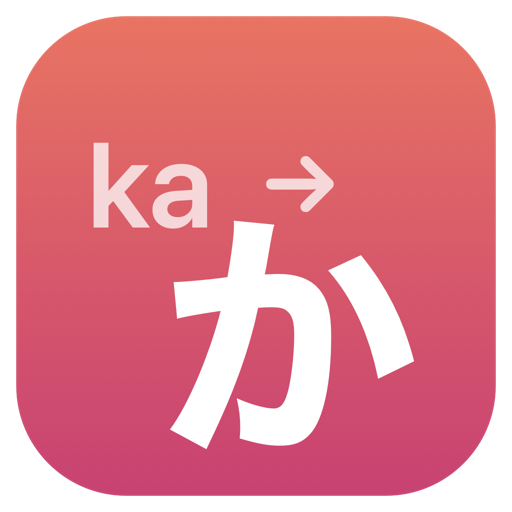
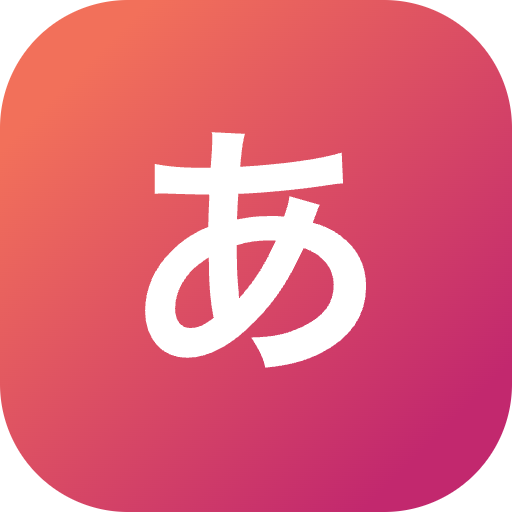
raycast: 公開版の修正とアイコンを Private 版の kana-retype と chrome-tab-search に反映

diff --git a/projects/chrome-tab-search/src/search-tabs.tsx b/projects/chrome-tab-search/src/search-tabs.tsx
@@ -12,16 +12,14 @@ function hostname(url: string) {
 }
 
 export default function Command() {
-  const {
-    data: tabs = [],
-    isLoading,
-    revalidate,
-  } = useCachedPromise(listTabs, [], {
-    failureToastOptions: { title: "タブを取得できませんでした" },
+  const { data, isLoading, error, revalidate } = useCachedPromise(listTabs, [], {
+    failureToastOptions: { title: "Failed to load tabs" },
   });
+  const tabs = data?.tabs ?? [];
+  const skippedWindowCount = data?.skippedWindowCount ?? 0;
   const [query, setQuery] = useState("");
 
-  // 日本語は単語に区切れないので、タイトルと URL の部分一致で絞り込む
+  // Filter by matching title and url across space-separated query words
   const words = query.toLowerCase().split(/\s+/).filter(Boolean);
   const visible = tabs.filter((tab) => {
     const haystack = `${tab.title}\n${tab.url}`.toLowerCase();
@@ -34,33 +32,55 @@ export default function Command() {
       await closeMainWindow();
       await popToRoot({ clearSearchBar: true });
     } catch (error) {
-      await showFailureToast(error, { title: "タブを開けませんでした" });
+      await showFailureToast(error, { title: "Failed to switch tab" });
       revalidate();
     }
   }
 
+  const retryAction = <Action title="Retry" icon={Icon.ArrowClockwise} onAction={revalidate} />;
+  const skippedTitle = "Some Tabs Could Not Be Loaded";
+  const skippedDetail = `${skippedWindowCount} ${skippedWindowCount === 1 ? "window" : "windows"} changed while loading`;
+
   return (
-    <List isLoading={isLoading} filtering={false} onSearchTextChange={setQuery} searchBarPlaceholder="タブを検索">
-      {!isLoading && (
+    <List isLoading={isLoading} filtering={false} onSearchTextChange={setQuery} searchBarPlaceholder="Search tabs...">
+      {!isLoading && error && tabs.length === 0 ? (
         <List.EmptyView
-          icon={Icon.MagnifyingGlass}
-          title={tabs.length === 0 ? "開いているタブがありません" : "一致するタブがありません"}
+          icon={Icon.Warning}
+          title="Failed to Load Tabs"
+          description={error.message || "Please check Raycast automation permissions for Google Chrome."}
+          actions={<ActionPanel>{retryAction}</ActionPanel>}
         />
-      )}
-      {visible.map((tab) => (
-        <List.Item
-          key={tab.id}
-          title={tab.title || tab.url}
-          subtitle={hostname(tab.url)}
-          icon={getFavicon(tab.url, { fallback: Icon.Globe })}
-          accessories={[{ text: `ウィンドウ ${tab.windowNumber}` }]}
-          actions={
-            <ActionPanel>
-              <Action title="Switch to Tab" icon={Icon.Switch} onAction={() => onSwitch(tab)} />
-            </ActionPanel>
-          }
+      ) : !isLoading && skippedWindowCount > 0 ? (
+        <List.EmptyView
+          icon={Icon.Warning}
+          title={skippedTitle}
+          description={skippedDetail}
+          actions={<ActionPanel>{retryAction}</ActionPanel>}
         />
-      ))}
+      ) : !isLoading ? (
+        <List.EmptyView icon={Icon.MagnifyingGlass} title={tabs.length === 0 ? "No open tabs" : "No matching tabs"} />
+      ) : null}
+      {/* 警告を選択できる行にすると Enter がタブ切り替えではなく Retry になるので、Section の見出しに出す */}
+      <List.Section
+        title={skippedWindowCount > 0 ? skippedTitle : undefined}
+        subtitle={skippedWindowCount > 0 ? `${skippedDetail} · ⌘↵ to retry` : undefined}
+      >
+        {visible.map((tab) => (
+          <List.Item
+            key={tab.id}
+            title={tab.title || tab.url}
+            subtitle={hostname(tab.url)}
+            icon={getFavicon(tab.url, { fallback: Icon.Globe })}
+            accessories={[{ text: `Window ${tab.windowNumber}` }]}
+            actions={
+              <ActionPanel>
+                <Action title="Switch to Tab" icon={Icon.Switch} onAction={() => onSwitch(tab)} />
+                {retryAction}
+              </ActionPanel>
+            }
+          />
+        ))}
+      </List.Section>
     </List>
   );
 }

diff --git a/projects/chrome-tab-search/src/lib/chrome.ts b/projects/chrome-tab-search/src/lib/chrome.ts
@@ -8,20 +8,53 @@ export type ChromeTab = {
   windowNumber: number;
 };
 
+export type TabList = {
+  tabs: ChromeTab[];
+  /** 読み取り中にタブが変わり続けて、結果に含められなかったウィンドウの数 */
+  skippedWindowCount: number;
+};
+
 // タイトルにどんな文字が入っていても崩れないよう、JXA で書いて JSON で受け取る。
-// タブごとに問い合わせると数百タブで遅いので、ウィンドウ単位でまとめて取得する
+// タブごとに問い合わせると数百タブで遅いので、ウィンドウ単位でまとめて取得する。
+// 取得中にタブの移動や閉じる操作があっても ID とタイトル/URL の対応がずれないよう、前後で ID の一貫性を検証する
 const LIST_TABS = `
 function run() {
   const chrome = Application("Google Chrome");
-  if (!chrome.running()) return "[]";
-  return JSON.stringify(
-    chrome.windows().flatMap((window, index) => {
-      const ids = window.tabs.id();
+  if (!chrome.running()) return JSON.stringify({ tabs: [], skippedWindowCount: 0 });
+  const results = [];
+  let skippedWindowCount = 0;
+  const windows = chrome.windows();
+  for (let index = 0; index < windows.length; index++) {
+    const window = windows[index];
+    const windowNumber = index + 1;
+    let windowTabs = null;
+    for (let attempt = 0; attempt < 3; attempt++) {
+      const initialIds = window.tabs.id().map(String);
       const titles = window.tabs.title();
       const urls = window.tabs.url();
-      return ids.map((id, i) => ({ id: String(id), title: titles[i], url: urls[i], windowNumber: index + 1 }));
-    }),
-  );
+      const verifyIds = window.tabs.id().map(String);
+      if (
+        initialIds.length === titles.length &&
+        initialIds.length === urls.length &&
+        initialIds.length === verifyIds.length &&
+        initialIds.every((id, i) => id === verifyIds[i])
+      ) {
+        windowTabs = initialIds.map((id, i) => ({
+          id: id,
+          title: titles[i],
+          url: urls[i],
+          windowNumber: windowNumber,
+        }));
+        break;
+      }
+    }
+    if (windowTabs) {
+      results.push(...windowTabs);
+    } else {
+      skippedWindowCount++;
+    }
+  }
+  return JSON.stringify({ tabs: results, skippedWindowCount: skippedWindowCount });
 }
 `;
 
@@ -33,15 +66,16 @@ function run(argv) {
     const index = window.tabs.id().map(String).indexOf(argv[0]);
     if (index === -1) continue;
     window.activeTabIndex = index + 1;
+    window.minimized = false;
     window.index = 1;
     chrome.activate();
     return;
   }
-  throw new Error("タブが見つかりません（閉じられた可能性があります）");
+  throw new Error("Tab not found (it may have been closed)");
 }
 `;
 
-export async function listTabs(): Promise<ChromeTab[]> {
+export async function listTabs(): Promise<TabList> {
   return JSON.parse(await runAppleScript(LIST_TABS, { language: "JavaScript" }));
 }
 

diff --git a/projects/kana-retype/src/lib/keys.ts b/projects/kana-retype/src/lib/keys.ts
@@ -1,38 +1,34 @@
-// JIS キーボードの「かな」キー
-const KANA_KEY_CODE = 104;
-const RETURN_KEY_CODE = 36;
+// JIS keyboard "Kana" key code
+export const KANA_KEY_CODE = 104;
 
-// キーボードから直接打てる文字（ASCII の印字可能文字 + タブ・改行）
-const TYPABLE = /^[\x20-\x7E\t\n]$/;
+// Standard printable ASCII characters (excluding spaces which trigger IME conversion, and control chars)
+const TYPABLE = /^[\x21-\x7E]$/;
 
-/** 改行コードを \n にそろえる */
-export function normalizeNewlines(text: string): string {
-  return text.replace(/\r\n?/g, "\n");
+/** Checks if text contains whitespace (spaces, tabs, or newlines) */
+export function checkWhitespace(text: string): { hasNewlinesOrTabs: boolean; hasSpaces: boolean } {
+  return {
+    hasNewlinesOrTabs: /[\r\n\t]/.test(text),
+    hasSpaces: / /.test(text),
+  };
 }
 
-/** キーで打てない文字（かな・漢字・全角記号など）を重複なしで返す */
+/** Returns non-typable characters (full-width, kana, kanji, control chars) without duplicates */
 export function findUntypableChars(text: string): string[] {
-  const chars = Array.from(normalizeNewlines(text)).filter((char) => !TYPABLE.test(char));
+  const chars = Array.from(text).filter((char) => !TYPABLE.test(char));
   return [...new Set(chars)];
 }
 
-function quoteAppleScript(value: string): string {
-  return `"${value.replace(/\\/g, "\\\\").replace(/"/g, '\\"')}"`;
-}
-
 /**
- * かなキーを押してから、text と同じキーを順に送る AppleScript を作る。
- * 改行は Return キー（かなモードでは確定）、タブは Tab キーとして送る。
+ * Fixed AppleScript template that receives user input via argv to prevent script injection.
+ * Sends the Kana key (key code 104) and keystrokes the input text.
  */
-export function buildRetypeScript(text: string): string {
-  const lines: string[] = [`key code ${KANA_KEY_CODE}`, "delay 0.1"];
-
-  for (const part of normalizeNewlines(text).split(/(\n|\t)/)) {
-    if (part === "") continue;
-    if (part === "\n") lines.push(`key code ${RETURN_KEY_CODE}`);
-    else if (part === "\t") lines.push("keystroke tab");
-    else lines.push(`keystroke ${quoteAppleScript(part)}`);
-  }
-
-  return ['tell application "System Events"', ...lines.map((line) => `  ${line}`), "end tell"].join("\n");
-}
+export const RETYPE_SCRIPT = `
+on run argv
+  set inputText to item 1 of argv
+  tell application "System Events"
+    key code 104
+    delay 0.1
+    keystroke inputText
+  end tell
+end run
+`;

diff --git a/projects/kana-retype/src/retype-as-kana.ts b/projects/kana-retype/src/retype-as-kana.ts
@@ -1,37 +1,48 @@
 import { closeMainWindow, getSelectedText, showHUD } from "@raycast/api";
 import { runAppleScript } from "@raycast/utils";
-import { buildRetypeScript, findUntypableChars } from "./lib/keys";
-
-async function readSelection(): Promise<string> {
-  try {
-    return await getSelectedText();
-  } catch {
-    // 選択が無いと getSelectedText は例外を投げる
-    return "";
-  }
-}
+import { checkWhitespace, findUntypableChars, RETYPE_SCRIPT } from "./lib/keys";
 
 export default async function Command() {
   await closeMainWindow();
 
-  const text = await readSelection();
-  if (text === "") {
-    await showHUD("文字列を選択してください");
+  let text = "";
+  try {
+    text = await getSelectedText();
+  } catch (error) {
+    const message = error instanceof Error ? error.message : String(error);
+    if (/accessibility|permission|denied|authorized|not permitted/i.test(message)) {
+      await showHUD("Accessibility permission required. Please check System Settings.");
+    } else {
+      await showHUD("Please select text");
+    }
+    return;
+  }
+
+  if (!text || text.length === 0) {
+    await showHUD("Please select text");
+    return;
+  }
+
+  const { hasNewlinesOrTabs, hasSpaces } = checkWhitespace(text);
+  if (hasNewlinesOrTabs) {
+    await showHUD("Text contains newlines or tabs, which are not supported");
+    return;
+  }
+  if (hasSpaces) {
+    await showHUD("Text contains spaces, which triggers IME conversion");
     return;
   }
 
   const untypable = findUntypableChars(text);
   if (untypable.length > 0) {
-    await showHUD(`英数字と記号以外の文字が含まれています: ${untypable.slice(0, 5).join(" ")}`);
+    await showHUD(`Text contains non-ASCII characters: ${untypable.slice(0, 5).join(" ")}`);
     return;
   }
 
   try {
-    await runAppleScript(buildRetypeScript(text));
+    await runAppleScript(RETYPE_SCRIPT, [text]);
   } catch (error) {
     console.error(error);
-    await showHUD(
-      "キーを送れませんでした。Raycast のアクセシビリティ権限と System Events の操作許可を確認してください",
-    );
+    await showHUD("Failed to send keys. Please check Accessibility and System Events permissions.");
   }
 }

diff --git a/projects/chrome-tab-search/CHANGELOG.md b/projects/chrome-tab-search/CHANGELOG.md
@@ -1,5 +1,14 @@
 # Chrome Tab Search Changelog
 
+## [公開版の修正を反映] - 2026-11-07
+
+- 最小化されたウィンドウのタブを選んだときに、ウィンドウを復元するようにした
+- 読み込みに失敗したときに、エラーと Retry を画面に表示するようにした
+- 読み取り中にタブが変わっても、タイトルと ID がずれないようにした
+- 読み込めなかったウィンドウがあるときに、警告を出して Retry できるようにした
+- 画面の文言を英語にした
+- アイコンを新しくした
+
 ## [Initial Version] - 2026-11-06
 
 - Chrome のタブをウィンドウ横断で検索して切り替える `Search Chrome Tabs` を追加した

diff --git a/projects/kana-retype/CHANGELOG.md b/projects/kana-retype/CHANGELOG.md
@@ -1,5 +1,13 @@
 # Kana Retype Changelog
 
+## [公開版の修正を反映] - 2026-11-07
+
+- 選択文字列をスクリプトに埋め込まず、引数で渡すようにした
+- 空白、タブ、改行を含む選択は、打ち直さずに理由を HUD で表示するようにした
+- アクセシビリティ権限がないときに、未選択ではなく権限不足と案内するようにした
+- HUD の文言を英語にした
+- アイコンを新しくした
+
 ## [ターミナル対応を削除] - 2026-11-07
 
 - `Manage Terminal Apps` コマンドを削除した
